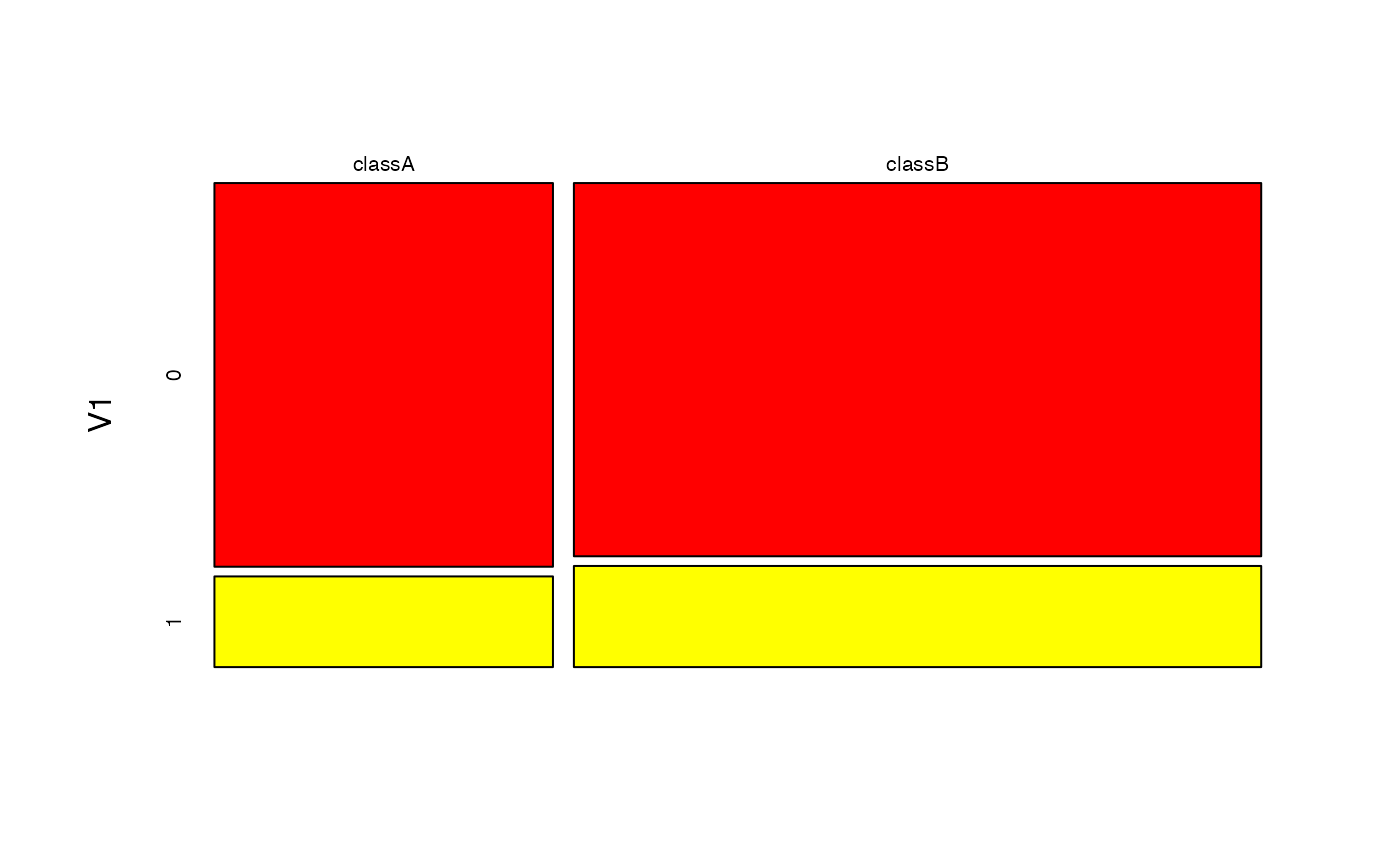
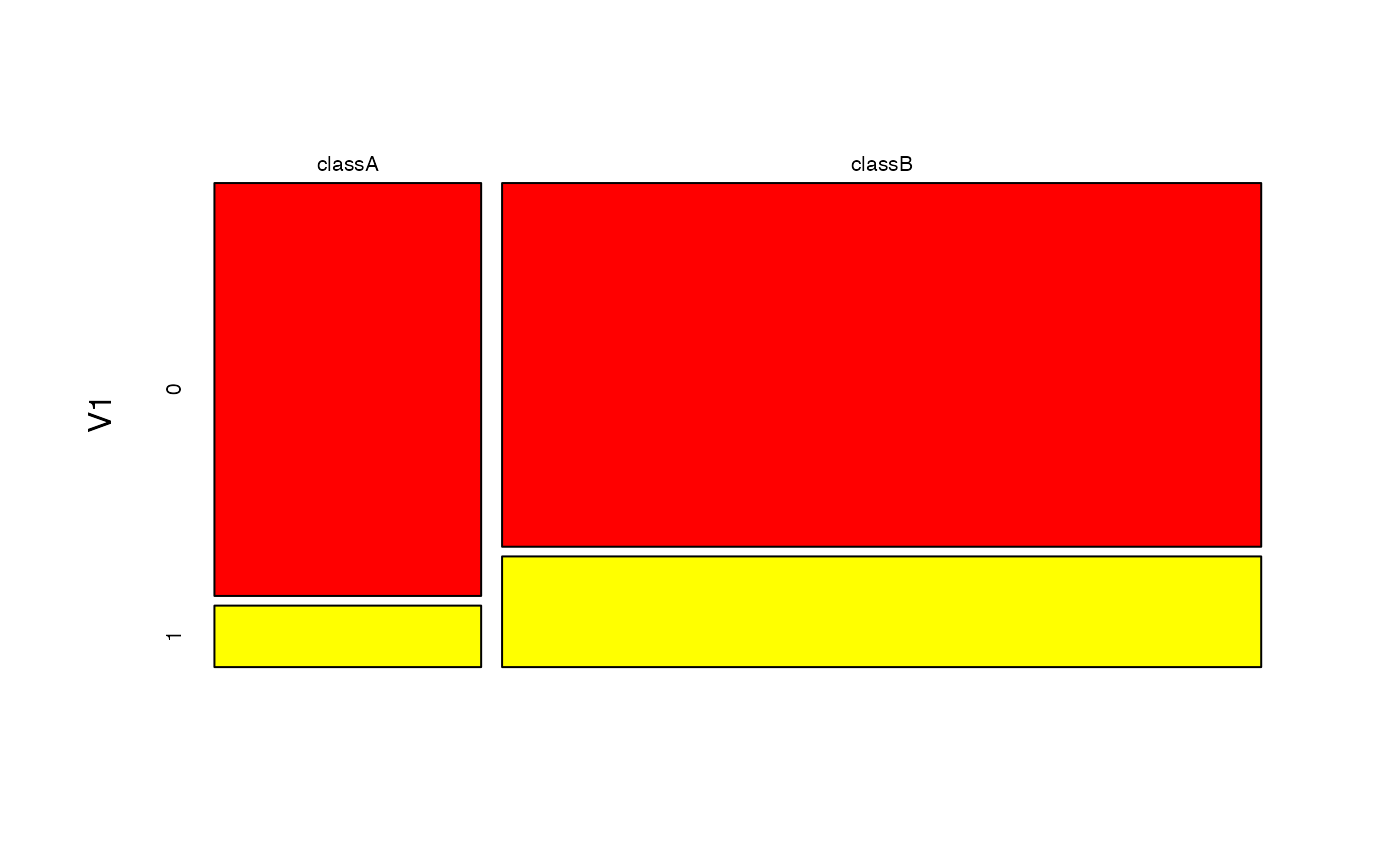
Update web documentation

Changed region(s): [[0.1536, 0.1873, 0.9214, 0.7803], [0.215, 0.1873, 0.3071, 0.2185], [0.6143, 0.1873, 0.6757, 0.2185]]

diff --git a/docs/reference/naivebayes.html b/docs/reference/naivebayes.html
@@ -1,7 +1,7 @@
 <!DOCTYPE html>
 <!-- Generated by pkgdown: do not edit by hand --><html lang="en"><head><meta http-equiv="Content-Type" content="text/html; charset=UTF-8"><meta charset="utf-8"><meta http-equiv="X-UA-Compatible" content="IE=edge"><meta name="viewport" content="width=device-width, initial-scale=1.0"><title>naivebayes — naivebayes • naivebayes</title><!-- favicons --><link rel="icon" type="image/png" sizes="16x16" href="../favicon-16x16.png"><link rel="icon" type="image/png" sizes="32x32" href="../favicon-32x32.png"><link rel="apple-touch-icon" type="image/png" sizes="180x180" href="../apple-touch-icon.png"><link rel="apple-touch-icon" type="image/png" sizes="120x120" href="../apple-touch-icon-120x120.png"><link rel="apple-touch-icon" type="image/png" sizes="76x76" href="../apple-touch-icon-76x76.png"><link rel="apple-touch-icon" type="image/png" sizes="60x60" href="../apple-touch-icon-60x60.png"><!-- jquery --><script src="https://cdnjs.cloudflare.com/ajax/libs/jquery/3.4.1/jquery.min.js" integrity="sha256-CSXorXvZcTkaix6Yvo6HppcZGetbYMGWSFlBw8HfCJo=" crossorigin="anonymous"></script><!-- Bootstrap --><link rel="stylesheet" href="https://cdnjs.cloudflare.com/ajax/libs/twitter-bootstrap/3.4.1/css/bootstrap.min.css" integrity="sha256-bZLfwXAP04zRMK2BjiO8iu9pf4FbLqX6zitd+tIvLhE=" crossorigin="anonymous"><script src="https://cdnjs.cloudflare.com/ajax/libs/twitter-bootstrap/3.4.1/js/bootstrap.min.js" integrity="sha256-nuL8/2cJ5NDSSwnKD8VqreErSWHtnEP9E7AySL+1ev4=" crossorigin="anonymous"></script><!-- bootstrap-toc --><link rel="stylesheet" href="../bootstrap-toc.css"><script src="../bootstrap-toc.js"></script><!-- Font Awesome icons --><link rel="stylesheet" href="https://cdnjs.cloudflare.com/ajax/libs/font-awesome/5.12.1/css/all.min.css" integrity="sha256-mmgLkCYLUQbXn0B1SRqzHar6dCnv9oZFPEC1g1cwlkk=" crossorigin="anonymous"><link rel="stylesheet" href="https://cdnjs.cloudflare.com/ajax/libs/font-awesome/5.12.1/css/v4-shims.min.css" integrity="sha256-wZjR52fzng1pJHwx4aV2AO3yyTOXrcDW7jBpJtTwVxw=" crossorigin="anonymous"><!-- clipboard.js --><script src="https://cdnjs.cloudflare.com/ajax/libs/clipboard.js/2.0.6/clipboard.min.js" integrity="sha256-inc5kl9MA1hkeYUt+EC3BhlIgyp/2jDIyBLS6k3UxPI=" crossorigin="anonymous"></script><!-- headroom.js --><script src="https://cdnjs.cloudflare.com/ajax/libs/headroom/0.11.0/headroom.min.js" integrity="sha256-AsUX4SJE1+yuDu5+mAVzJbuYNPHj/WroHuZ8Ir/CkE0=" crossorigin="anonymous"></script><script src="https://cdnjs.cloudflare.com/ajax/libs/headroom/0.11.0/jQuery.headroom.min.js" integrity="sha256-ZX/yNShbjqsohH1k95liqY9Gd8uOiE1S4vZc+9KQ1K4=" crossorigin="anonymous"></script><!-- pkgdown --><link href="../pkgdown.css" rel="stylesheet"><script src="../pkgdown.js"></script><meta property="og:title" content="naivebayes — naivebayes"><meta property="og:description" content="
 
-The naivebayes package provides an efficient implementation of the popular Naive Bayes classifier in R. It was developed and is now maintained based on three principles: it should be efficient, user friendly and written in Base R. The last implies no dependencies, however, it neither denies nor interferes with being efficient as many functions from the Base R distribution use highly efficient routines programmed in lower level languages, such as C or FORTRAN. In fact, the naivebayes package utilizes only such functions for resource-intensive calculations."><meta property="og:image" content="https://majkamichal.github.io/naivebayes/logo.png"><!-- mathjax --><script src="https://cdnjs.cloudflare.com/ajax/libs/mathjax/2.7.5/MathJax.js" integrity="sha256-nvJJv9wWKEm88qvoQl9ekL2J+k/RWIsaSScxxlsrv8k=" crossorigin="anonymous"></script><script src="https://cdnjs.cloudflare.com/ajax/libs/mathjax/2.7.5/config/TeX-AMS-MML_HTMLorMML.js" integrity="sha256-84DKXVJXs0/F8OTMzX4UR909+jtl4G7SPypPavF+GfA=" crossorigin="anonymous"></script><!--[if lt IE 9]>
+The naivebayes package presents an efficient implementation of the widely-used Naive Bayes classifier. It upholds three core principles: efficiency, user-friendliness, and reliance solely on Base R. By adhering to the latter principle, the package ensures stability and reliability without introducing external dependencies. This design choice maintains efficiency by leveraging the optimized routines inherent in Base R, many of which are programmed in high-performance languages like C/C++ or FORTRAN. By following these principles, the naivebayes package provides a reliable and efficient tool for Naive Bayes classification tasks, ensuring that users can perform their analyses effectively and with ease, even in the presence of missing data."><meta property="og:image" content="https://majkamichal.github.io/naivebayes/logo.png"><!-- mathjax --><script src="https://cdnjs.cloudflare.com/ajax/libs/mathjax/2.7.5/MathJax.js" integrity="sha256-nvJJv9wWKEm88qvoQl9ekL2J+k/RWIsaSScxxlsrv8k=" crossorigin="anonymous"></script><script src="https://cdnjs.cloudflare.com/ajax/libs/mathjax/2.7.5/config/TeX-AMS-MML_HTMLorMML.js" integrity="sha256-84DKXVJXs0/F8OTMzX4UR909+jtl4G7SPypPavF+GfA=" crossorigin="anonymous"></script><!--[if lt IE 9]>
 <script src="https://oss.maxcdn.com/html5shiv/3.7.3/html5shiv.min.js"></script>
 <script src="https://oss.maxcdn.com/respond/1.4.2/respond.min.js"></script>
 <![endif]--><!-- Global site tag (gtag.js) - Google Analytics --><script async src="https://www.googletagmanager.com/gtag/js?id=UA-87132983-2"></script><script>
@@ -93,7 +93,7 @@ The naivebayes package provides an efficient implementation of the popular Naive
     <div class="ref-description">
     
 
-<p>The naivebayes package provides an efficient implementation of the popular Naive Bayes classifier in R. It was developed and is now maintained based on three principles: it should be efficient, user friendly and written in Base R. The last implies no dependencies, however, it neither denies nor interferes with being efficient as many functions from the Base R distribution use highly efficient routines programmed in lower level languages, such as C or FORTRAN. In fact, the naivebayes package utilizes only such functions for resource-intensive calculations.</p>
+<p>The <b>naivebayes</b> package presents an efficient implementation of the widely-used Naive Bayes classifier. It upholds three core principles: efficiency, user-friendliness, and reliance solely on Base R. By adhering to the latter principle, the package ensures stability and reliability without introducing external dependencies. This design choice maintains efficiency by leveraging the optimized routines inherent in Base R, many of which are programmed in high-performance languages like C/C++ or FORTRAN. By following these principles, the naivebayes package provides a reliable and efficient tool for Naive Bayes classification tasks, ensuring that users can perform their analyses effectively and with ease, even in the presence of missing data.</p>
     </div>
 
 
@@ -101,20 +101,21 @@ The naivebayes package provides an efficient implementation of the popular Naive
     <h2>Details</h2>
     
 
-<p>The general function <b><code><a href="naive_bayes.html">naive_bayes()</a></code></b> detects the class of each feature in the dataset and, depending on the user choices, assumes possibly different distribution for each feature. It currently supports following class conditional distributions:</p>
-<ul><li><p>categorical distribution for discrete features</p></li>
-<li><p>Poisson distribution for non-negative integers</p></li>
+<p>The general <b><code><a href="naive_bayes.html">naive_bayes()</a></code></b> function is designed to determine the class of each feature in a dataset, and depending on user specifications, it can assume various distributions for each feature. It currently supports the following class conditional distributions:</p>
+<ul><li><p>Categorical distribution for discrete features (with Bernoulli distribution as a special case for binary outcomes)</p></li>
+<li><p>Poisson distribution for non-negative integer features</p></li>
 <li><p>Gaussian distribution for continuous features</p></li>
 <li><p>non-parametrically estimated densities via Kernel Density Estimation for continuous features</p></li>
-</ul><p>In addition to that specialized functions are available which implement:</p>
-<ul><li><p>Bernoulli Naive Bayes via <b><code><a href="bernoulli_naive_bayes.html">bernoulli_naive_bayes()</a></code></b></p></li>
+</ul><p>In addition to the general Naive Bayes function, the package provides specialized functions for various types of Naive Bayes classifiers. The specialized functions are carefully optimized for efficiency, utilizing linear algebra operations to excel when handling dense matrices. Additionally, they can also exploit sparsity of matrices for enhanced performance:</p>
+<ul><li><p>Bernoulli Naiive Bayes via <b><code><a href="bernoulli_naive_bayes.html">bernoulli_naive_bayes()</a></code></b></p></li>
 <li><p>Multinomial Naive Bayes via <b><code><a href="multinomial_naive_bayes.html">multinomial_naive_bayes()</a></code></b></p></li>
 <li><p>Poisson Naive Bayes via <b><code><a href="poisson_naive_bayes.html">poisson_naive_bayes()</a></code></b></p></li>
 <li><p>Gaussian Naive Bayes via <b><code><a href="gaussian_naive_bayes.html">gaussian_naive_bayes()</a></code></b></p></li>
 <li><p>Non-Parametric Naive Bayes via <b><code><a href="nonparametric_naive_bayes.html">nonparametric_naive_bayes()</a></code></b></p></li>
-</ul><p><b>Extended documentation can be found on the website:</b></p><ul><li><p><a href="https://majkamichal.github.io/naivebayes/">https://majkamichal.github.io/naivebayes/</a></p></li>
+</ul><p>These specialized classifiers are tailored to different assumptions about the underlying data distributions, offering users versatile tools for classification tasks. Moreover, the package incorporates various helper functions aimed at enhancing the user experience. Notably, the model fitting functions provided by the package can effectively handle missing data, ensuring that users can utilize the classifiers even in the presence of incomplete information.</p>
+<p><b>Extended documentation can be found on the website:</b></p><ul><li><p><a href="https://majkamichal.github.io/naivebayes/">https://majkamichal.github.io/naivebayes/</a></p></li>
 </ul><p><b>Bug reports:</b></p><ul><li><p><a href="https://github.com/majkamichal/naivebayes/issues" class="external-link">https://github.com/majkamichal/naivebayes/issues</a></p></li>
-</ul><p><b>Suggestions:</b></p><ul><li><p><a href="mailto:michalmajka@hotmail.com">michalmajka@hotmail.com</a></p></li>
+</ul><p><b>Contact:</b></p><ul><li><p><a href="mailto:michalmajka@hotmail.com">michalmajka@hotmail.com</a></p></li>
 </ul></div>
 
   </div>

diff --git a/docs/articles/specialized_naive_bayes.html b/docs/articles/specialized_naive_bayes.html
@@ -207,29 +207,29 @@ features. We then train the Bernoulli Naive Bayes model using the
 <span class="co">## - Samples: 100 </span>
 <span class="co">## - Features: 10 </span>
 <span class="co">## - Prior probabilities: </span>
-<span class="co">##     - classA: 0.33</span>
-<span class="co">##     - classB: 0.67</span>
+<span class="co">##     - classA: 0.26</span>
+<span class="co">##     - classB: 0.74</span>
 <span class="co">## </span>
 <span class="co">## --------------------------------------------------------------------------------</span></code></pre>
 <div class="sourceCode" id="cb8"><pre class="downlit sourceCode r">
 <code class="sourceCode R"><span class="fu"><a href="https://rdrr.io/r/utils/head.html" class="external-link">head</a></span><span class="op">(</span><span class="fu"><a href="https://rdrr.io/r/stats/predict.html" class="external-link">predict</a></span><span class="op">(</span><span class="va">bnb</span>, newdata <span class="op">=</span> <span class="va">M</span>, type <span class="op">=</span> <span class="st">"prob"</span><span class="op">)</span><span class="op">)</span> </code></pre></div>
 <pre><code><span class="co">##         classA    classB</span>
-<span class="co">## [1,] 0.1146708 0.8853292</span>
-<span class="co">## [2,] 0.1522854 0.8477146</span>
-<span class="co">## [3,] 0.1146708 0.8853292</span>
-<span class="co">## [4,] 0.4485128 0.5514872</span>
-<span class="co">## [5,] 0.3286400 0.6713600</span>
-<span class="co">## [6,] 0.3878599 0.6121401</span></code></pre>
+<span class="co">## [1,] 0.1998716 0.8001284</span>
+<span class="co">## [2,] 0.1129078 0.8870922</span>
+<span class="co">## [3,] 0.2612964 0.7387036</span>
+<span class="co">## [4,] 0.2866077 0.7133923</span>
+<span class="co">## [5,] 0.3154115 0.6845885</span>
+<span class="co">## [6,] 0.2225820 0.7774180</span></code></pre>
 <div class="sourceCode" id="cb10"><pre class="downlit sourceCode r">
 <code class="sourceCode R"><span class="co"># Equivalently</span>
 <span class="fu"><a href="https://rdrr.io/r/utils/head.html" class="external-link">head</a></span><span class="op">(</span><span class="va">bnb</span> <span class="op"><a href="../reference/infix_class_prob.html">%prob%</a></span> <span class="va">M</span><span class="op">)</span></code></pre></div>
 <pre><code><span class="co">##         classA    classB</span>
-<span class="co">## [1,] 0.1146708 0.8853292</span>
-<span class="co">## [2,] 0.1522854 0.8477146</span>
-<span class="co">## [3,] 0.1146708 0.8853292</span>
-<span class="co">## [4,] 0.4485128 0.5514872</span>
-<span class="co">## [5,] 0.3286400 0.6713600</span>
-<span class="co">## [6,] 0.3878599 0.6121401</span></code></pre>
+<span class="co">## [1,] 0.1998716 0.8001284</span>
+<span class="co">## [2,] 0.1129078 0.8870922</span>
+<span class="co">## [3,] 0.2612964 0.7387036</span>
+<span class="co">## [4,] 0.2866077 0.7133923</span>
+<span class="co">## [5,] 0.3154115 0.6845885</span>
+<span class="co">## [6,] 0.2225820 0.7774180</span></code></pre>
 <div class="sourceCode" id="cb12"><pre class="downlit sourceCode r">
 <code class="sourceCode R"><span class="co"># Visualise marginal distributions</span>
 <span class="fu"><a href="https://rdrr.io/r/graphics/plot.default.html" class="external-link">plot</a></span><span class="op">(</span><span class="va">bnb</span>, which <span class="op">=</span> <span class="st">"V1"</span>, prob <span class="op">=</span> <span class="st">"marginal"</span><span class="op">)</span></code></pre></div>
@@ -238,16 +238,16 @@ features. We then train the Bernoulli Naive Bayes model using the
 <code class="sourceCode R"><span class="co"># Obtain model coefficients</span>
 <span class="fu"><a href="https://rdrr.io/r/stats/coef.html" class="external-link">coef</a></span><span class="op">(</span><span class="va">bnb</span><span class="op">)</span></code></pre></div>
 <pre><code><span class="co">##      classA:0   classA:1  classB:0  classB:1</span>
-<span class="co">## V1  0.8088235 0.19117647 0.7867647 0.2132353</span>
-<span class="co">## V2  0.8676471 0.13235294 0.7720588 0.2279412</span>
-<span class="co">## V3  0.7794118 0.22058824 0.8014706 0.1985294</span>
-<span class="co">## V4  0.8088235 0.19117647 0.8455882 0.1544118</span>
-<span class="co">## V5  0.8088235 0.19117647 0.8602941 0.1397059</span>
-<span class="co">## V6  0.7500000 0.25000000 0.7867647 0.2132353</span>
-<span class="co">## V7  0.9264706 0.07352941 0.7720588 0.2279412</span>
-<span class="co">## V8  0.8676471 0.13235294 0.7867647 0.2132353</span>
-<span class="co">## V9  0.7205882 0.27941176 0.8308824 0.1691176</span>
-<span class="co">## V10 0.7205882 0.27941176 0.8014706 0.1985294</span></code></pre>
+<span class="co">## V1  0.8703704 0.12962963 0.7666667 0.2333333</span>
+<span class="co">## V2  0.9074074 0.09259259 0.7266667 0.2733333</span>
+<span class="co">## V3  0.8333333 0.16666667 0.7933333 0.2066667</span>
+<span class="co">## V4  0.8333333 0.16666667 0.7266667 0.2733333</span>
+<span class="co">## V5  0.6851852 0.31481481 0.7533333 0.2466667</span>
+<span class="co">## V6  0.7962963 0.20370370 0.8466667 0.1533333</span>
+<span class="co">## V7  0.8703704 0.12962963 0.8066667 0.1933333</span>
+<span class="co">## V8  0.7592593 0.24074074 0.8066667 0.1933333</span>
+<span class="co">## V9  0.7592593 0.24074074 0.8466667 0.1533333</span>
+<span class="co">## V10 0.7962963 0.20370370 0.7933333 0.2066667</span></code></pre>
 <p><strong>Equivalent calculation with naive_bayes
 function:</strong></p>
 <div class="sourceCode" id="cb15"><pre class="downlit sourceCode r">
@@ -257,12 +257,12 @@ function:</strong></p>
 <span class="va">nb</span> <span class="op">&lt;-</span> <span class="fu"><a href="../reference/naive_bayes.html">naive_bayes</a></span><span class="op">(</span><span class="va">df</span>, <span class="va">y</span>, laplace <span class="op">=</span> <span class="va">laplace</span><span class="op">)</span>
 <span class="fu"><a href="https://rdrr.io/r/utils/head.html" class="external-link">head</a></span><span class="op">(</span><span class="va">nb</span> <span class="op"><a href="../reference/infix_class_prob.html">%prob%</a></span> <span class="va">df</span><span class="op">)</span></code></pre></div>
 <pre><code><span class="co">##         classA    classB</span>
-<span class="co">## [1,] 0.1146708 0.8853292</span>
-<span class="co">## [2,] 0.1522854 0.8477146</span>
-<span class="co">## [3,] 0.1146708 0.8853292</span>
-<span class="co">## [4,] 0.4485128 0.5514872</span>
-<span class="co">## [5,] 0.3286400 0.6713600</span>
-<span class="co">## [6,] 0.3878599 0.6121401</span></code></pre>
+<span class="co">## [1,] 0.1998716 0.8001284</span>
+<span class="co">## [2,] 0.1129078 0.8870922</span>
+<span class="co">## [3,] 0.2612964 0.7387036</span>
+<span class="co">## [4,] 0.2866077 0.7133923</span>
+<span class="co">## [5,] 0.3154115 0.6845885</span>
+<span class="co">## [6,] 0.2225820 0.7774180</span></code></pre>
 </div>
 <div class="section level2">
 <h2 id="multinomial-naive-bayes">3) Multinomial Naive Bayes<a class="anchor" aria-label="anchor" href="#multinomial-naive-bayes"></a>

diff --git a/docs/articles/naivebayes.html b/docs/articles/naivebayes.html
@@ -132,7 +132,7 @@
 implementation of the Naïve Bayes algorithm via formula interlace and
 classical combination of the matrix/data.frame containing the features
 and a vector with the class labels. All functions can recognize missing
-values, give an informative warning and more importantly - they know how
+values, give informative warnings and more importantly - they know how
 to handle them. In following the basic usage of the main function
 <code><a href="../reference/naive_bayes.html">naive_bayes()</a></code> is demonstrated. Examples with the
 specialized Naive Bayes classifiers can be found in <a href="https://majkamichal.github.io/naivebayes/articles/specialized_naive_bayes.html">this
@@ -153,7 +153,7 @@ excludes the class label variable (class) to simulate new data for
 classification.</p>
 <div class="sourceCode" id="cb1"><pre class="downlit sourceCode r">
 <code class="sourceCode R"><span class="kw"><a href="https://rdrr.io/r/base/library.html" class="external-link">library</a></span><span class="op">(</span><span class="va"><a href="https://github.com/majkamichal/naivebayes" class="external-link">naivebayes</a></span><span class="op">)</span></code></pre></div>
-<pre><code><span class="co">## naivebayes 0.9.7 loaded</span></code></pre>
+<pre><code><span class="co">## naivebayes 1.0.0 loaded</span></code></pre>
 <pre><code><span class="co">## For more information please visit:</span></code></pre>
 <pre><code><span class="co">## https://majkamichal.github.io/naivebayes/</span></code></pre>
 <div class="sourceCode" id="cb5"><pre class="downlit sourceCode r">
@@ -258,8 +258,7 @@ various tasks.</p>
 <div class="sourceCode" id="cb21"><pre class="downlit sourceCode r">
 <code class="sourceCode R"><span class="co"># Apply helper functions</span>
 <span class="fu"><a href="../reference/tables.html">tables</a></span><span class="op">(</span><span class="va">nb</span>, <span class="fl">1</span><span class="op">)</span></code></pre></div>
-<pre><code><span class="co">## </span>
-<span class="co">## -------------------------------------------------------------------------------- </span>
+<pre><code><span class="co">## -------------------------------------------------------------------------------- </span>
 <span class="co">## :: bern (Bernoulli) </span>
 <span class="co">## -------------------------------------------------------------------------------- </span>
 <span class="co">##     </span>

diff --git a/docs/articles/Sparse matrices.html b/docs/articles/Sparse matrices.html
@@ -178,7 +178,7 @@ model, and making predictions.</p>
 
 <span class="co"># Check fraction of zeros</span>
 <span class="fu"><a href="https://rdrr.io/r/base/mean.html" class="external-link">mean</a></span><span class="op">(</span><span class="va">M</span> <span class="op">==</span> <span class="fl">0</span><span class="op">)</span></code></pre></div>
-<pre><code><span class="co">## [1] 0.958</span></code></pre>
+<pre><code><span class="co">## [1] 0.951</span></code></pre>
 <div class="sourceCode" id="cb3"><pre class="downlit sourceCode r">
 <code class="sourceCode R"><span class="co"># Cast the matrix to "dgCMatrix" object</span>
 <span class="va">M_sparse</span> <span class="op">&lt;-</span> <span class="fu">Matrix</span><span class="fu">::</span><span class="fu"><a href="https://rdrr.io/pkg/Matrix/man/Matrix.html" class="external-link">Matrix</a></span><span class="op">(</span><span class="va">M</span>, sparse <span class="op">=</span> <span class="cn">TRUE</span><span class="op">)</span>
@@ -186,7 +186,7 @@ model, and making predictions.</p>
 <span class="co">### Train the Multinomial Naive Bayes and predict the training data</span>
 <span class="va">mnb</span> <span class="op">&lt;-</span> <span class="fu">naivebayes</span><span class="fu">::</span><span class="fu"><a href="../reference/multinomial_naive_bayes.html">multinomial_naive_bayes</a></span><span class="op">(</span>x <span class="op">=</span> <span class="va">M_sparse</span>, y <span class="op">=</span> <span class="va">y</span>, laplace <span class="op">=</span> <span class="fl">1</span><span class="op">)</span>
 <span class="fu"><a href="https://rdrr.io/r/utils/head.html" class="external-link">head</a></span><span class="op">(</span><span class="fu"><a href="https://rdrr.io/r/stats/predict.html" class="external-link">predict</a></span><span class="op">(</span><span class="va">mnb</span>, <span class="va">M_sparse</span><span class="op">)</span><span class="op">)</span></code></pre></div>
-<pre><code><span class="co">## [1] classA classB classB classB classB classB</span>
+<pre><code><span class="co">## [1] classB classB classA classB classB classB</span>
 <span class="co">## Levels: classA classB</span></code></pre>
 <p>In the above code, we start by simulating a sparse matrix
 <code>M</code> with approximately 95% sparsity. The matrix has 100 rows

diff --git a/docs/index.html b/docs/index.html
@@ -22,7 +22,7 @@
     following class conditional distributions are available: Bernoulli,
     Categorical, Gaussian, Poisson, Multinomial and non-parametric
     representation of the class conditional density estimated via Kernel
-    Density Estimation.  Implemented classifiers handle missing data and
+    Density Estimation. Implemented classifiers handle missing data and
     can take advantage of sparse data.">
 <meta property="og:image" content="https://majkamichal.github.io/naivebayes/logo.png">
 <!-- mathjax --><script src="https://cdnjs.cloudflare.com/ajax/libs/mathjax/2.7.5/MathJax.js" integrity="sha256-nvJJv9wWKEm88qvoQl9ekL2J+k/RWIsaSScxxlsrv8k=" crossorigin="anonymous"></script><script src="https://cdnjs.cloudflare.com/ajax/libs/mathjax/2.7.5/config/TeX-AMS-MML_HTMLorMML.js" integrity="sha256-84DKXVJXs0/F8OTMzX4UR909+jtl4G7SPypPavF+GfA=" crossorigin="anonymous"></script><!--[if lt IE 9]>
@@ -151,7 +151,7 @@
 <li>Non-Parametric Naive Bayes via <code><a href="reference/nonparametric_naive_bayes.html">nonparametric_naive_bayes()</a></code>
 </li>
 </ul>
-<p>These specialized functions are carefully optimized for efficiency, utilizing linear algebra operations to excel when handling dense matrices. Additionally, they can also exploit <em>sparsity</em> of matrices for enhanced performance. The package also includes various helper functions to improve user experience. Moreover, users can access the general <code><a href="reference/naive_bayes.html">naive_bayes()</a></code> function through the excellent <code>Caret</code> package, providing additional versatility.</p>
+<p>These specialized functions are carefully optimized for efficiency, utilizing linear algebra operations to excel when handling dense matrices. Additionally, they can also exploit <em>sparsity</em> of matrices for enhanced performance and work in presence of missing data. The package also includes various helper functions to improve user experience. Moreover, users can access the general <code><a href="reference/naive_bayes.html">naive_bayes()</a></code> function through the excellent <code>Caret</code> package, providing additional versatility.</p>
 </div>
 <div class="section level2">
 <h2 id="installation">Installation<a class="anchor" aria-label="anchor" href="#installation"></a>

diff --git a/README.md b/README.md
@@ -90,7 +90,7 @@ article](https://majkamichal.github.io/naivebayes/articles/specialized_naive_bay
 
 ``` r
 library(naivebayes)
-#> naivebayes 0.9.7 loaded
+#> naivebayes 1.0.0 loaded
 #> For more information please visit:
 #> https://majkamichal.github.io/naivebayes/
 
@@ -156,7 +156,6 @@ nb %prob% test
 
 # Helper functions
 tables(nb, 1)
-#> 
 #> -------------------------------------------------------------------------------- 
 #> :: bern (Bernoulli) 
 #> -------------------------------------------------------------------------------- 
